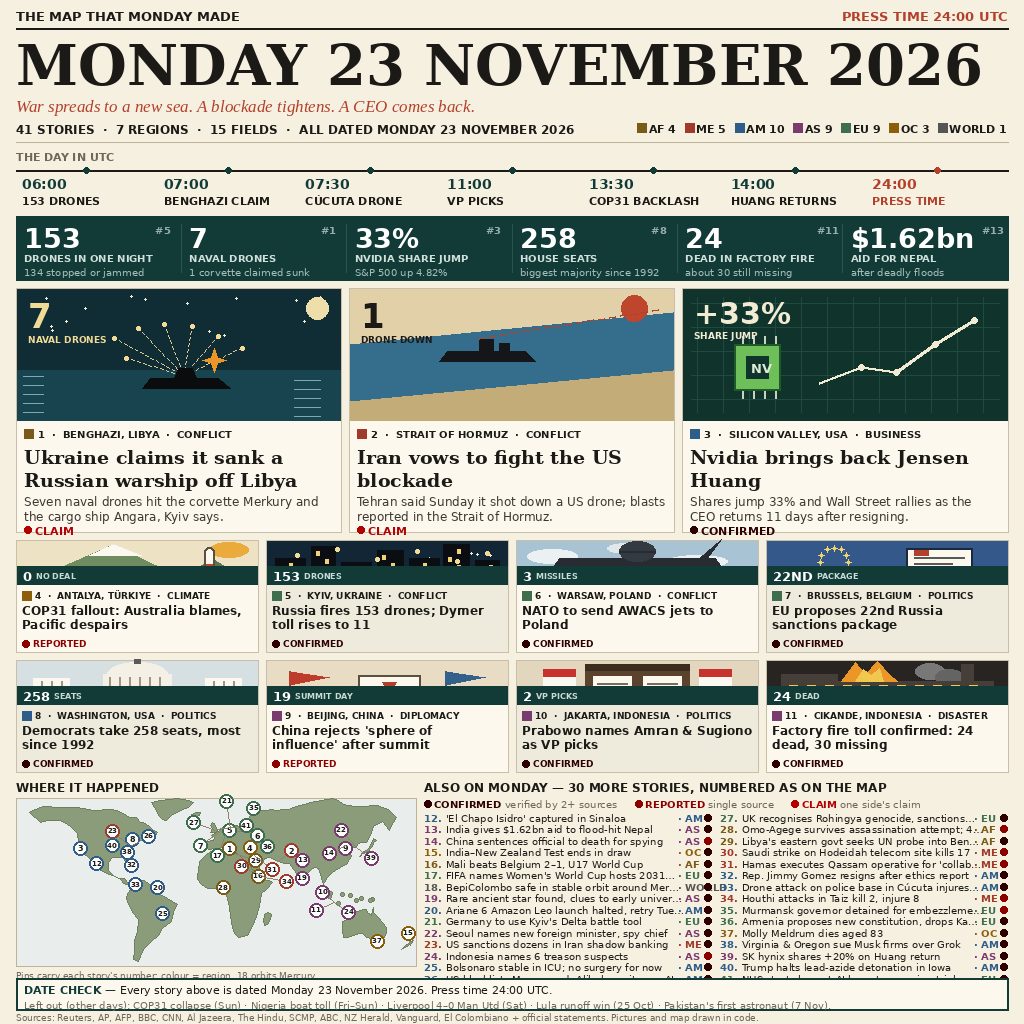
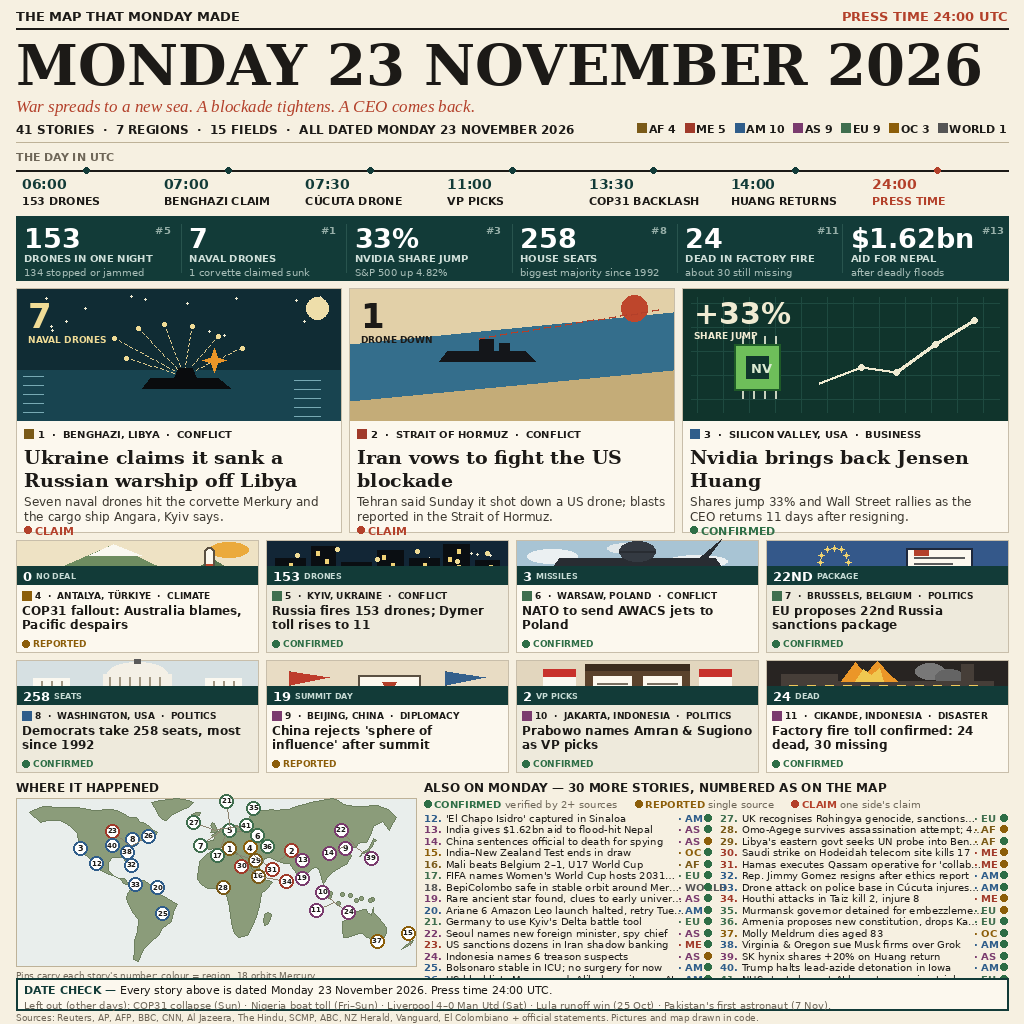
PUTARAN 3 (crosscheck FIX_FIRST putaran 2): B5 main.py chmod direktori hanya bila run ini yang membuatnya (if created, cegah PermissionError harness /output); B6 render.py STATUS[status][0] -> STATUS[status] di 3 tempat (status_chip, legenda, dot daftar) — warna status kini hijau/emas/bata, bukan me

diff --git a/render.py b/render.py
@@ -48,7 +48,7 @@ REGION = {  # name -> (label, colour) ; colour used in bar, card number, map pin
     "OC": ("OC", (140, 94, 10)),
     "WORLD": ("WORLD", (85, 85, 85)),
 }
-STATUS = {  # word -> (dot colour, label)
+STATUS = {  # word -> RGB tuple
     "CONFIRMED": (46, 110, 70),
     "REPORTED": (140, 94, 10),
     "CLAIM": (179, 64, 42),
@@ -200,7 +200,7 @@ def hline(draw, x0, x1, y, fill=RULE, width=1):
 
 def status_chip(draw, x, y, status, fnt):
     """Small dot + status word at (x, y); returns width used."""
-    col = STATUS[status][0]
+    col = STATUS[status]
     draw.ellipse([x, y + 2, x + 7, y + 9], fill=col)
     draw.text((x + 11, y), status, font=fnt, fill=col)
     return 11 + draw.textlength(status, font=fnt)
@@ -758,7 +758,7 @@ def build():
     for st, desc in [("CONFIRMED", "verified by 2+ sources"),
                      ("REPORTED", "single source"),
                      ("CLAIM", "one side's claim")]:
-        col = STATUS[st][0]
+        col = STATUS[st]
         d.ellipse([lx_, leg_y + 2, lx_ + 7, leg_y + 9], fill=col)
         text(d, (lx_ + 10, leg_y), st, SANS_B(10), col)
         w1 = d.textlength(st, font=SANS_B(10))
@@ -787,7 +787,7 @@ def build():
         lab = "· " + reg
         text(d, (ix + col_w - 34, yy), lab, SANS_B(10), colr)
         d.ellipse([ix + col_w - 8, yy + 2, ix + col_w - 1, yy + 9],
-                  fill=STATUS[status][0])
+                  fill=STATUS[status])
 
     # ---- DATE CHECK: its own box, separate from everything else
     dy0, dy1 = 978, 1010

diff --git a/main.py b/main.py
@@ -29,13 +29,15 @@ def _sha256(path):
 def main():
     src = os.path.join(HERE, "entry.png")
     out_dir = os.environ.get("MAKEFUN_OUTPUT_DIR", "/output")
+    created = not os.path.isdir(out_dir)
     os.makedirs(out_dir, exist_ok=True)
     dst = os.path.join(out_dir, "entry.png")
     shutil.copyfile(src, dst)
     if _sha256(dst) != _sha256(src):
         raise SystemExit("entry.png copy is not byte-identical")
     os.chmod(dst, 0o644)
-    os.chmod(out_dir, 0o755)
+    if created:
+        os.chmod(out_dir, 0o755)
 
 
 if __name__ == "__main__":
